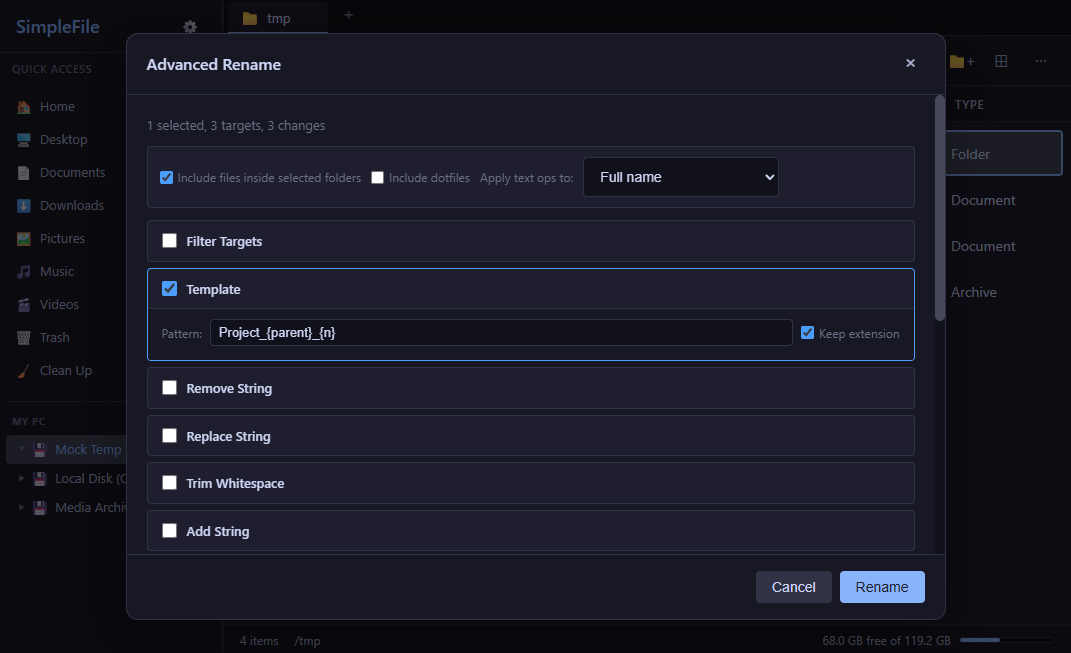
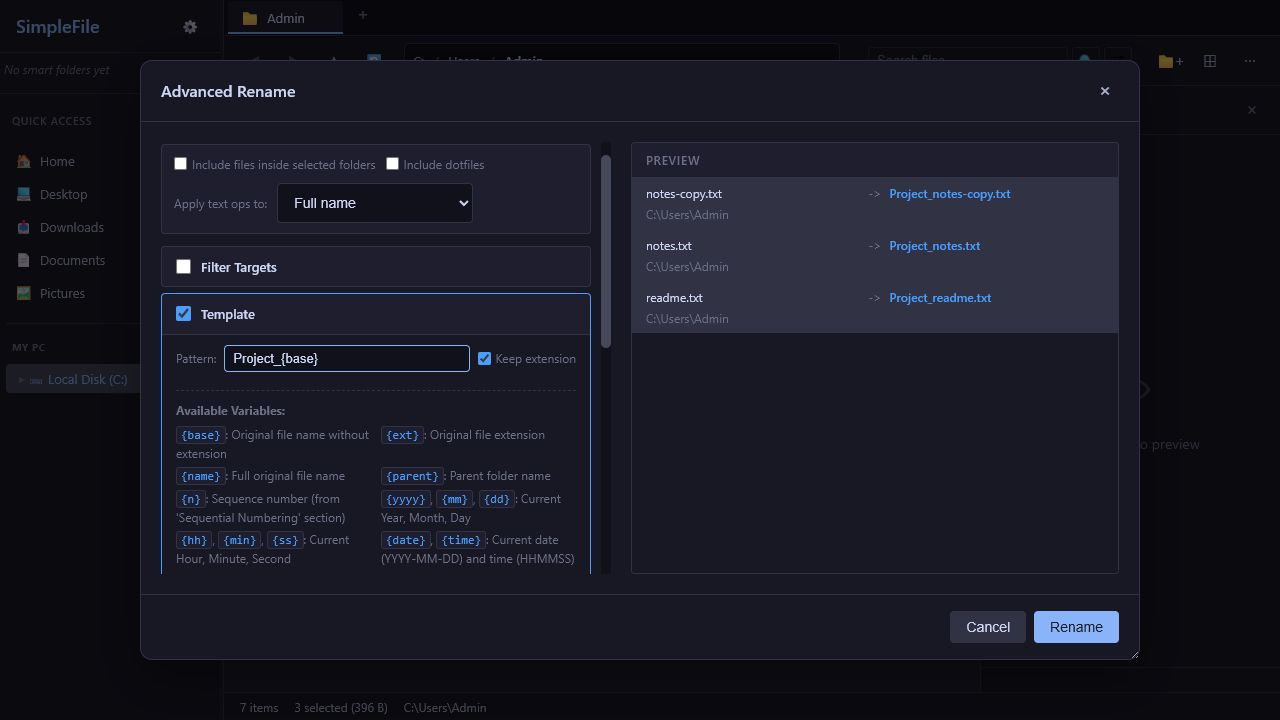
Fix screenshots

diff --git a/README.md b/README.md
@@ -10,7 +10,7 @@
 **SimpleFile** is a modern, high-performance file manager for Windows built with [Tauri 2](https://v2.tauri.app/), [Rust](https://www.rust-lang.org/), and [Svelte 5](https://svelte.dev/). It replaces the workflows people usually bolt onto Windows File Explorer — dual panes, tabbed browsing, archive tools, advanced search, rich file previews, metadata inspection, checksums, Git integration, and more — in a single, native desktop application.
 
 <p align="center">
-  <img src="docs/assets/screenshots/simplefile-advanced-rename.png" alt="SimpleFile — Advanced Rename with operation controls" width="720" />
+  <img src="docs/assets/screenshots/simplefile-main-window.png" alt="SimpleFile main window with preview pane" width="720" />
 </p>
 
 ---
@@ -36,13 +36,13 @@
 
 ## Screenshots
 
-| Advanced Rename | File Comparison |
+| Main Window | Advanced Rename |
 | :---: | :---: |
-| ![Advanced rename preview with operation controls](docs/assets/screenshots/simplefile-advanced-rename.png) | ![Side-by-side text file comparison showing changed and added lines](docs/assets/screenshots/simplefile-file-compare.png) |
+| ![Main window with preview pane](docs/assets/screenshots/simplefile-main-window.png) | ![Advanced rename template preview](docs/assets/screenshots/simplefile-advanced-rename.png) |
 
-| Configurable Columns |
-| :---: |
-| ![Configurable file list columns](docs/assets/screenshots/simplefile-configurable-columns.png) |
+| File Comparison | File List Settings |
+| :---: | :---: |
+| ![Side-by-side text file comparison showing a changed line](docs/assets/screenshots/simplefile-file-compare.png) | ![File List settings showing configurable visible columns](docs/assets/screenshots/simplefile-configurable-columns.png) |
 
 ---
 
